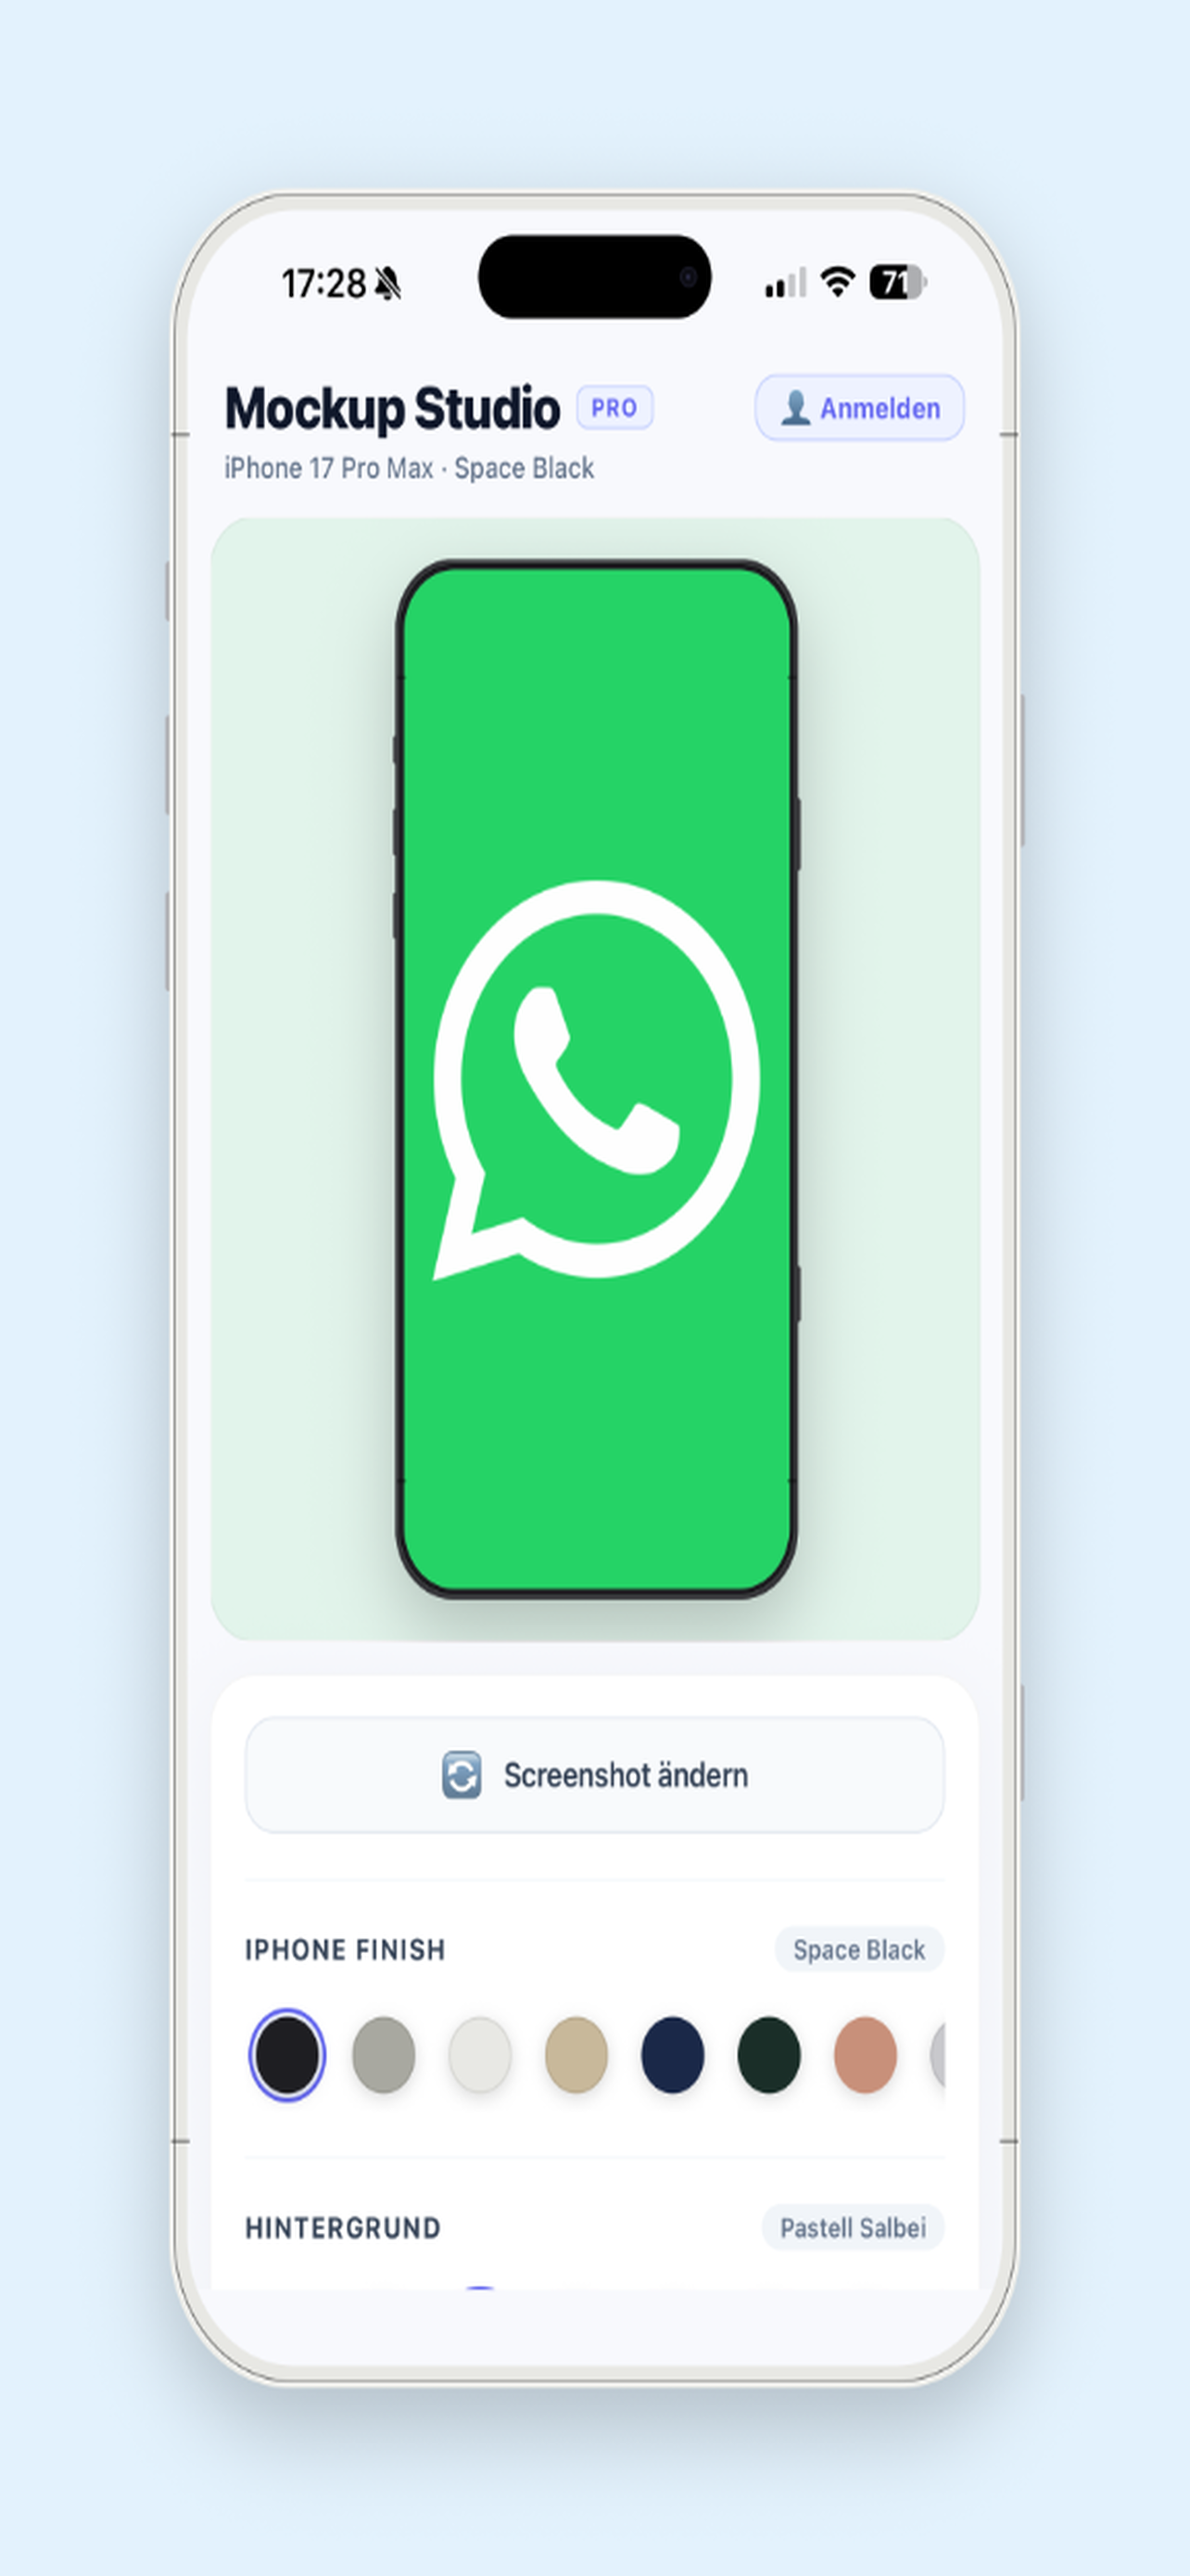
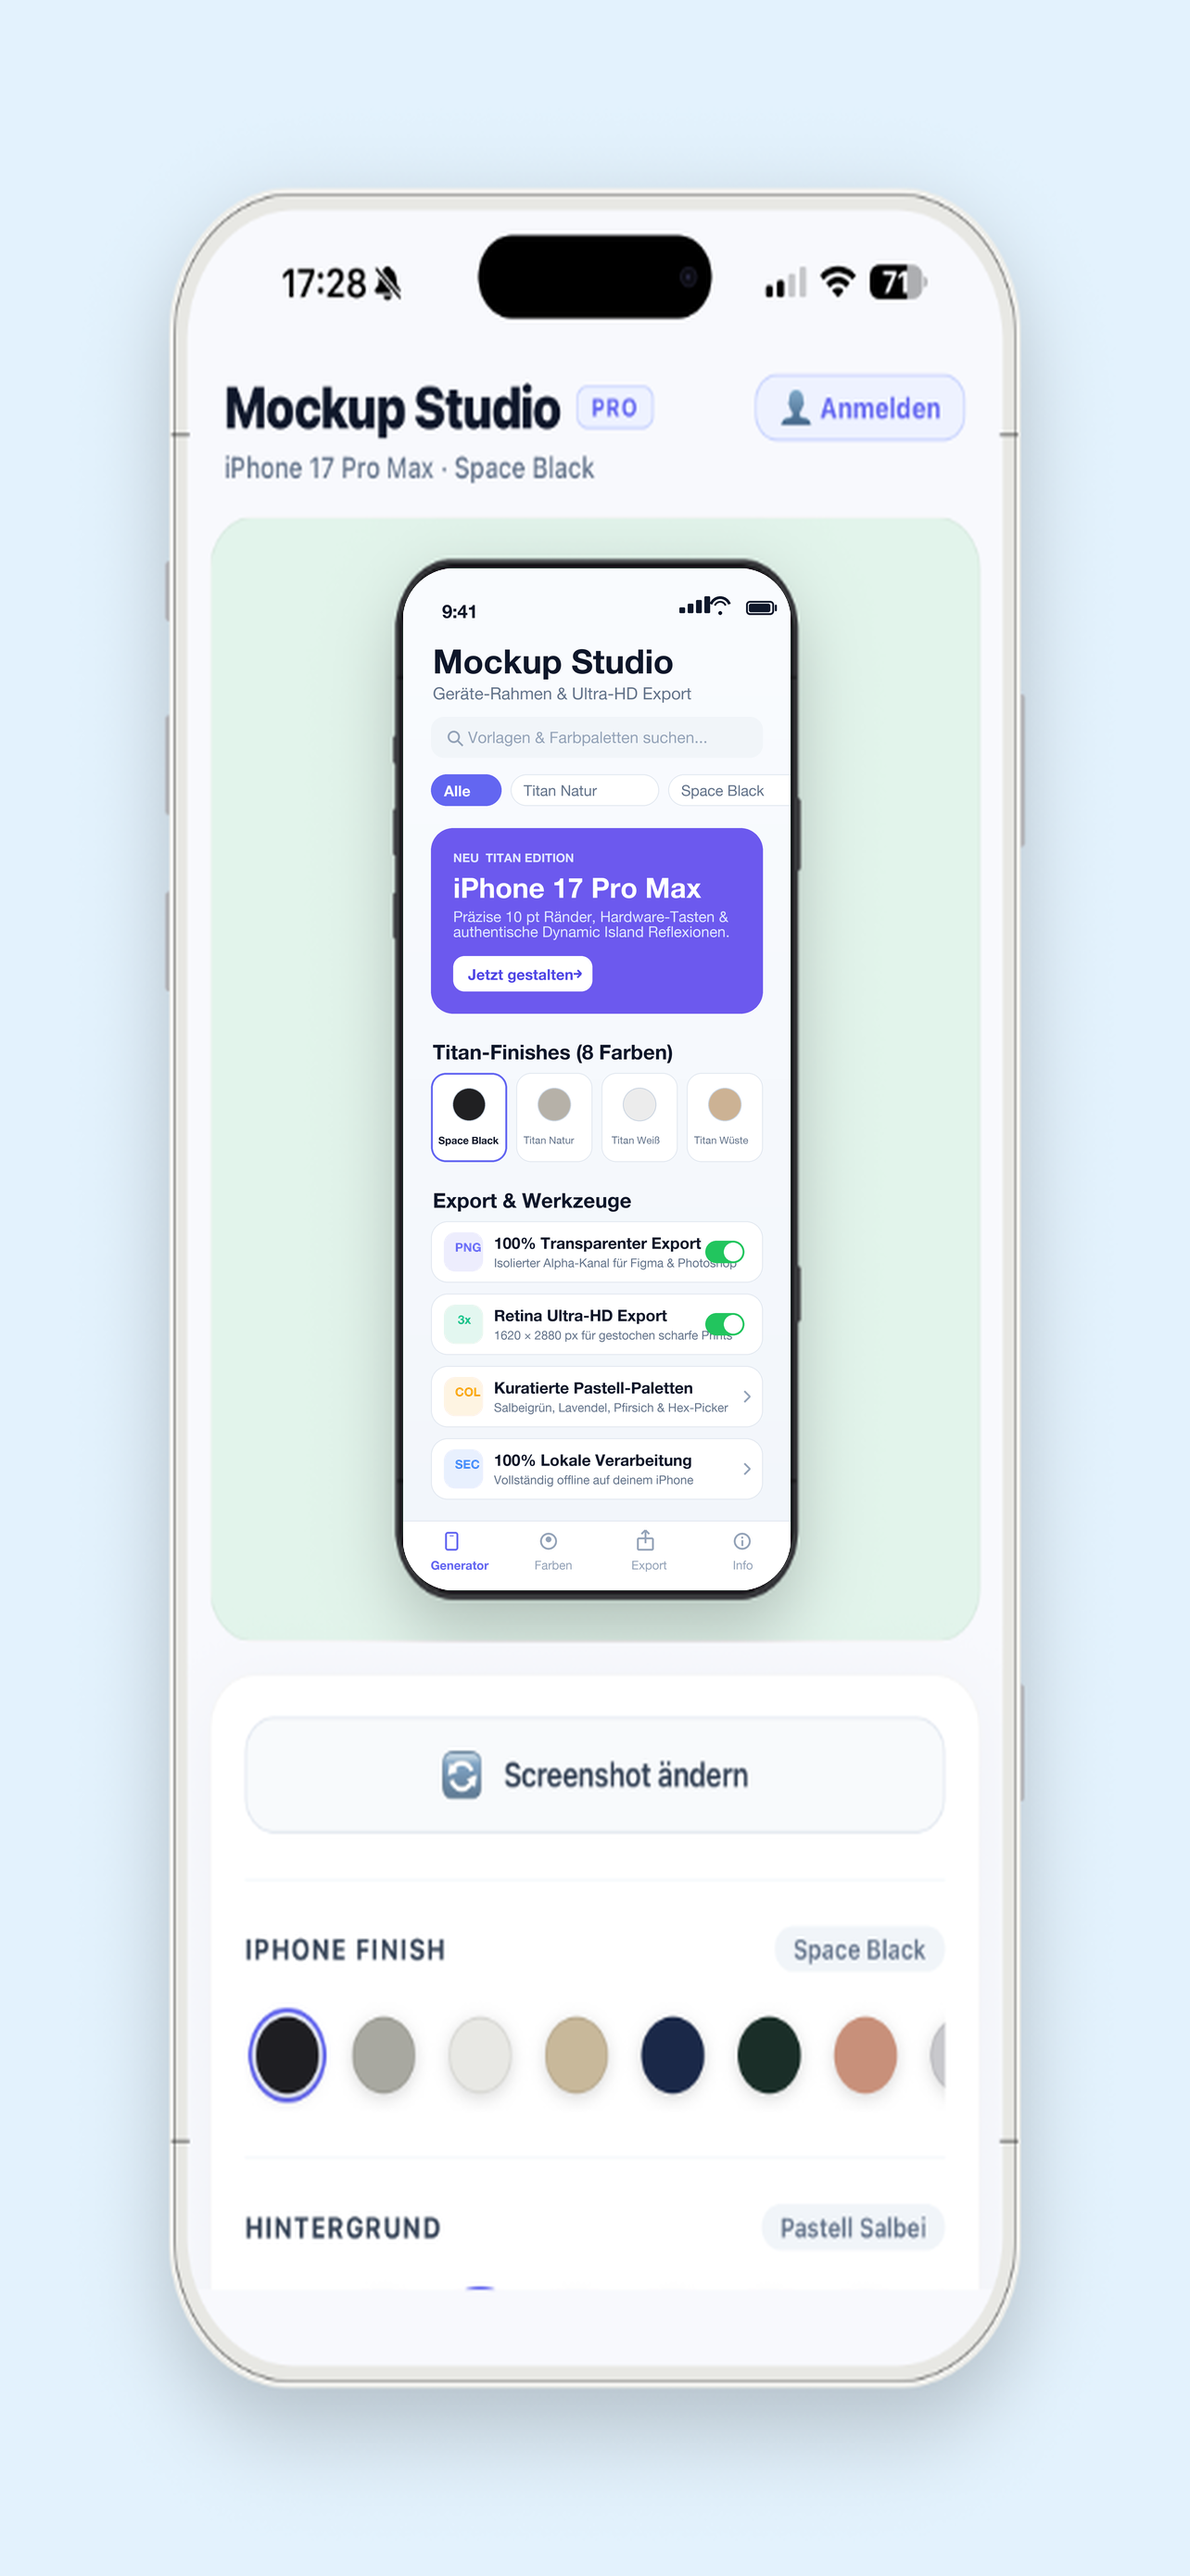
fix(app-store): resolve Apple App Review issues (Guideline 4.1a copycats, Guideline 1.5 support URL, Guideline 2.3 cloud sync)

Changed region(s): [[0.3115, 0.2167, 0.6854, 0.6192]]

diff --git a/app-store/mockupstudio/privacy.html b/app-store/mockupstudio/privacy.html
@@ -92,9 +92,8 @@
 
     <h2>2. Welche Daten verarbeitet werden</h2>
     <ul>
-      <li><strong>Account-Daten (Optional):</strong> Wenn du dich registrierst, speichern wir deine E-Mail-Adresse und ein verschlüsseltes Passwort über unseren Authentifizierungsdienst Supabase. Bei Nutzung des <em>Gast-Modus</em> werden keinerlei Accountdaten erhoben.</li>
-      <li><strong>Mockup-Vorlagen:</strong> Bei angemeldeten Nutzern werden individuelle Gehäuse- und Farbfavoriten verschlüsselt synchronisiert.</li>
-      <li><strong>Fotomediathek-Zugriff:</strong> Um Screenshots in den Geräterahmen einzufügen und das fertige Mockup abzuspeichern, fordert die App Zugriff auf die Fotos-Mediathek deines Geräts an. Diese Berechtigung wird rein lokal ausgeführt.</li>
+      <li><strong>Keine Nutzer- oder Account-Daten:</strong> Die Nutzung der App erfordert kein Benutzerkonto und keine Registrierung. Wir erheben, verarbeiten oder speichern keinerlei personenbezogene Profildaten.</li>
+      <li><strong>Fotomediathek-Zugriff:</strong> Um Screenshots in den Geräterahmen einzufügen und das fertige Mockup abzuspeichern, fordert die App Zugriff auf die Fotos-Mediathek deines Geräts an. Diese Berechtigung wird rein lokal auf deinem Gerät ausgeführt. Es werden zu keinem Zeitpunkt Fotos übertragen.</li>
     </ul>
 
     <h2>3. Zweck & Rechtsgrundlage</h2>
@@ -107,7 +106,6 @@
     <h2>4. Eingesetzte Dienste & Hosting</h2>
     <ul>
       <li><strong>IONOS SE:</strong> Diese Informationsseite wird auf Servern der IONOS SE (Elgendorfer Str. 57, 56410 Montabaur) gehostet.</li>
-      <li><strong>Supabase:</strong> Für sichere Authentifizierung und verschlüsselte Datenbankverwaltung.</li>
       <li><strong>Apple App Store:</strong> Für den Download und die Bereitstellung der iOS-App.</li>
     </ul>
 

diff --git a/app-store/privacy-policy.html b/app-store/privacy-policy.html
@@ -83,15 +83,13 @@
     <h2>2. Zweck der Datenverarbeitung</h2>
     <p>Die Verarbeitung dient ausschließlich folgenden Zwecken:</p>
     <ul>
-      <li>Sichere Anmeldung und geräteübergreifende Synchronisierung von Einstellungen.</li>
-      <li>Lokale Erstellung und Export hochauflösender Bilddateien.</li>
+      <li>Lokale Erstellung und Export hochauflösender Bilddateien auf deinem Gerät.</li>
       <li>Gewährleistung von Systemstabilität und technischer Sicherheit.</li>
     </ul>
 
     <h2>3. Eingesetzte Dienstleister</h2>
     <p>Wir arbeiten ausschließlich mit geprüften Infrastruktur-Partnern nach höchsten Sicherheitsstandards:</p>
     <ul>
-      <li><strong>Supabase:</strong> Für die sichere Datenbank- und Authentifizierungsverwaltung.</li>
       <li><strong>Apple App Store / Google Play:</strong> Für die Bereitstellung und den Download der App.</li>
     </ul>
 

diff --git a/app-store/mockupstudio/support.html b/app-store/mockupstudio/support.html
@@ -100,8 +100,8 @@
     </div>
 
     <div class="faq-item">
-      <div class="faq-q">🔑 Benötige ich zwingend ein Benutzerkonto?</div>
-      <div class="faq-a">Nein! Du kannst einfach auf „Ohne Anmeldung als Gast fortfahren“ tippen und alle Features sofort nutzen. Ein Konto ist nur erforderlich, wenn du eigene Vorlagen und den Export-Verlauf in der Cloud sichern möchtest.</div>
+      <div class="faq-q">🔑 Benötige ich ein Benutzerkonto?</div>
+      <div class="faq-a">Nein! Mockup Studio funktioniert komplett ohne Registrierung oder Anmeldung. Alle Funktionen stehen sofort nach dem Start uneingeschränkt und 100% lokal zur Verfügung.</div>
     </div>
 
     <div class="contact-card">

diff --git a/app-store/support.html b/app-store/support.html
@@ -101,7 +101,7 @@
 
     <div class="faq-item">
       <div class="faq-q">🔑 Benötige ich ein Benutzerkonto?</div>
-      <div class="faq-a">Nein! Du kannst einfach auf „Ohne Anmeldung als Gast fortfahren“ tippen und die App sofort nutzen. Ein Konto ist nur erforderlich, wenn du Vorlagen geräteübergreifend synchronisieren möchtest.</div>
+      <div class="faq-a">Nein! Mockup Studio funktioniert komplett ohne Registrierung oder Anmeldung. Alle Funktionen stehen sofort nach dem Start uneingeschränkt und 100% lokal zur Verfügung.</div>
     </div>
 
     <div class="contact-card">

diff --git a/app-store/app-store-listing.md b/app-store/app-store-listing.md
@@ -61,8 +61,6 @@ ULTRA-HD RETINA EXPORT
 • Sämtliches Rendering und Compositing finden vollständig lokal auf deinem Gerät statt.
 • Deine Fotos und Screenshots werden niemals auf externe Server oder an KI-Modelle übertragen.
 • Funktioniert komplett offline ohne Ladezeiten.
-
-Die optionale Cloud-Synchronisierung ermöglicht es dir, deine bevorzugten Mockup-Vorlagen und den Export-Verlauf sicher zu speichern.
 ```
 
 ---
@@ -115,11 +113,38 @@ Permissions:
 
 ## 📊 App-Datenschutz (App Store Connect Fragebogen)
 
+Die App erhebt keinerlei Daten ("Data Not Collected").
+
 | Datentyp | Erfasst? | Mit Nutzer verknüpft? | Für Tracking genutzt? | Zweck |
 | :--- | :--- | :--- | :--- | :--- |
-| **Kontaktinfo (E-Mail)** | Ja (Optional bei Registrierung) | Ja | **Nein** | App-Funktionalität / Authentifizierung |
-| **Benutzerinhalte (Fotos)** | **Nein** *(wird 100% lokal verarbeitet)* | Nein | **Nein** | Lokale Mockup-Erstellung |
-| **Identifikatoren (User ID)** | Ja (Optional) | Ja | **Nein** | App-Funktionalität (Supabase) |
-| **Diagnosedaten** | Nein | Nein | **Nein** | Keine |
-| **Standortdaten** | **Nein** | Nein | **Nein** | Keine |
-| **Tracking / Werbung** | **Nein** | Nein | **Nein** | Keine |
+| **Benutzerinhalte (Fotos)** | **Nein** *(100% lokale On-Device-Verarbeitung)* | Nein | Nein | Lokale Mockup-Erstellung |
+| **Kontaktinfo / Account** | **Nein** *(kein Konto erforderlich)* | Nein | Nein | Keine Erhebung |
+| **Identifikatoren** | **Nein** | Nein | Nein | Keine Erhebung |
+| **Diagnosedaten** | **Nein** | Nein | Nein | Keine Erhebung |
+| **Tracking / Werbung** | **Nein** | Nein | Nein | Keine Werbung |
+
+---
+
+## 📝 Antwort-Vorlage für Apple App Store Connect (Resolution Center)
+
+Folgenden Text kannst du direkt im App Store Connect Resolution Center als Antwort auf die Ablehnung senden:
+
+```text
+Dear Apple App Review Team,
+
+Thank you for your review and feedback regarding submission ID 7ebca1d1-209c-4da9-be87-d35efc2c22b5. We have addressed all three identified items:
+
+1. Guideline 4.1(a) - Copycats:
+We have revised our App Store screenshot metadata and completely removed the screenshot containing third-party branding (the WhatsApp-style graphic). A new, compliant screenshot showcasing genuine, neutral app interface content has been uploaded.
+
+2. Guideline 1.5 - Safety (Support URL):
+The Support URL (https://hi-handy.de/mockupstudio/support.html) is now fully active, functional, and accessible. It provides comprehensive FAQ answers, contact options, and customer service details for Mockup Studio.
+
+3. Guideline 2.3 - Accurate Metadata (Cloud Synchronization):
+We have removed the inadvertent reference to "optional cloud synchronization" from our app description and all metadata. Mockup Studio operates 100% locally and offline on the user's device with no cloud sync or account registration needed.
+
+Thank you for your time and for re-evaluating our submission.
+
+Best regards,
+Samiullah Sarwari
+```
